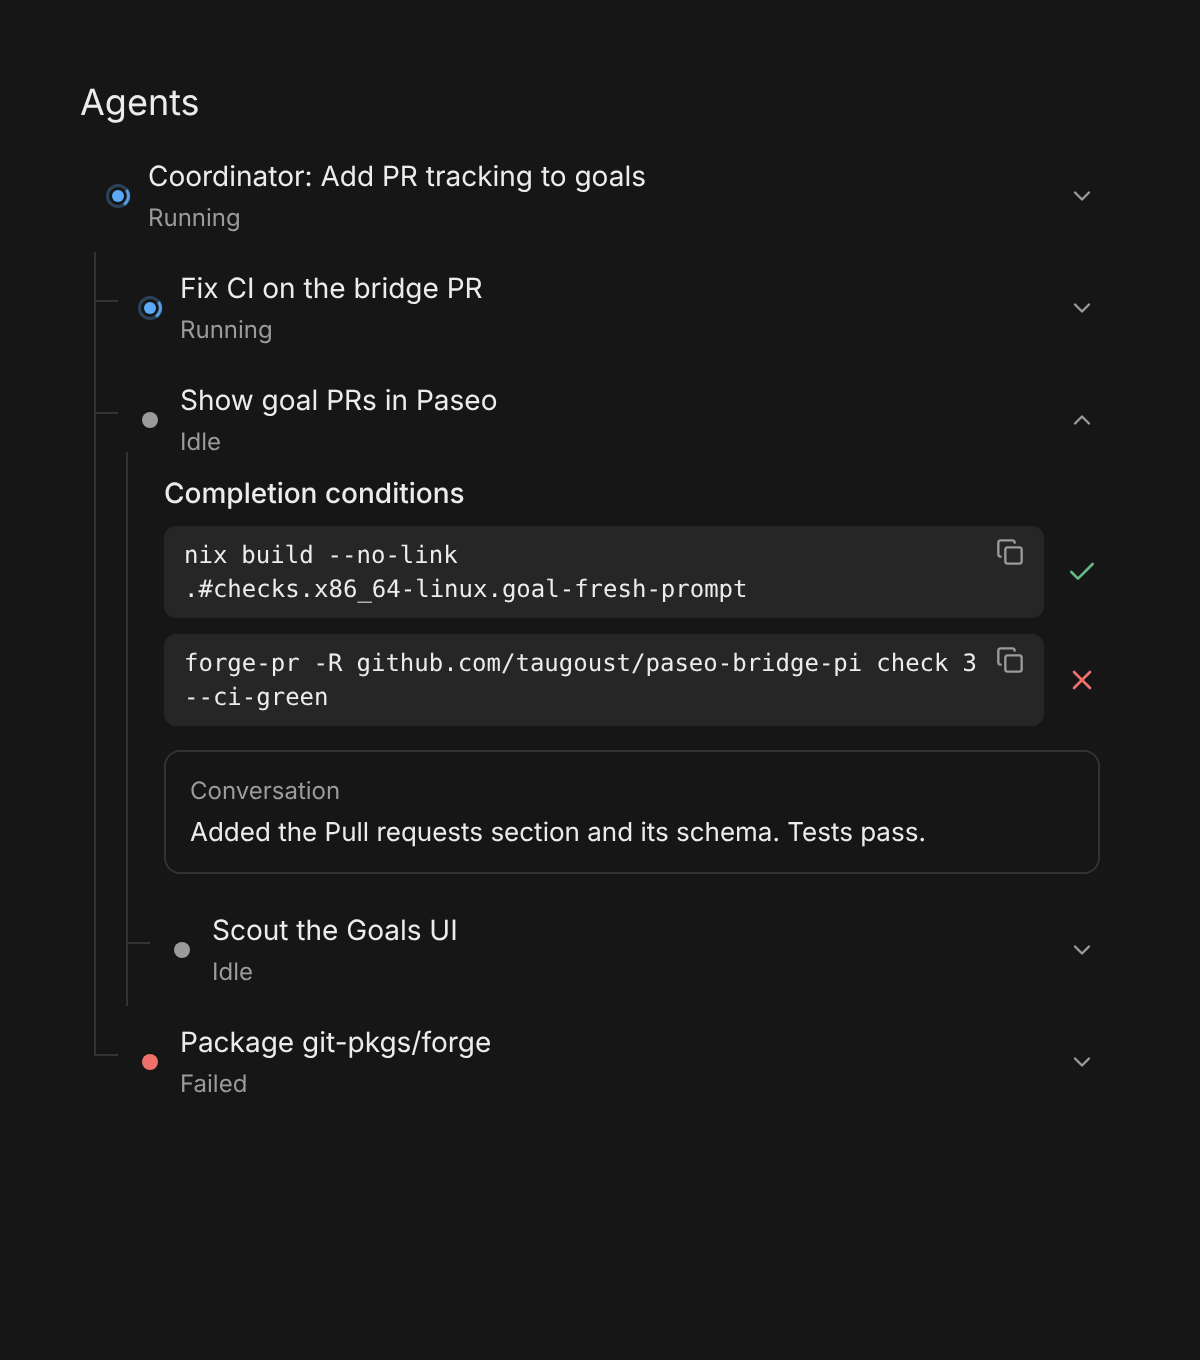
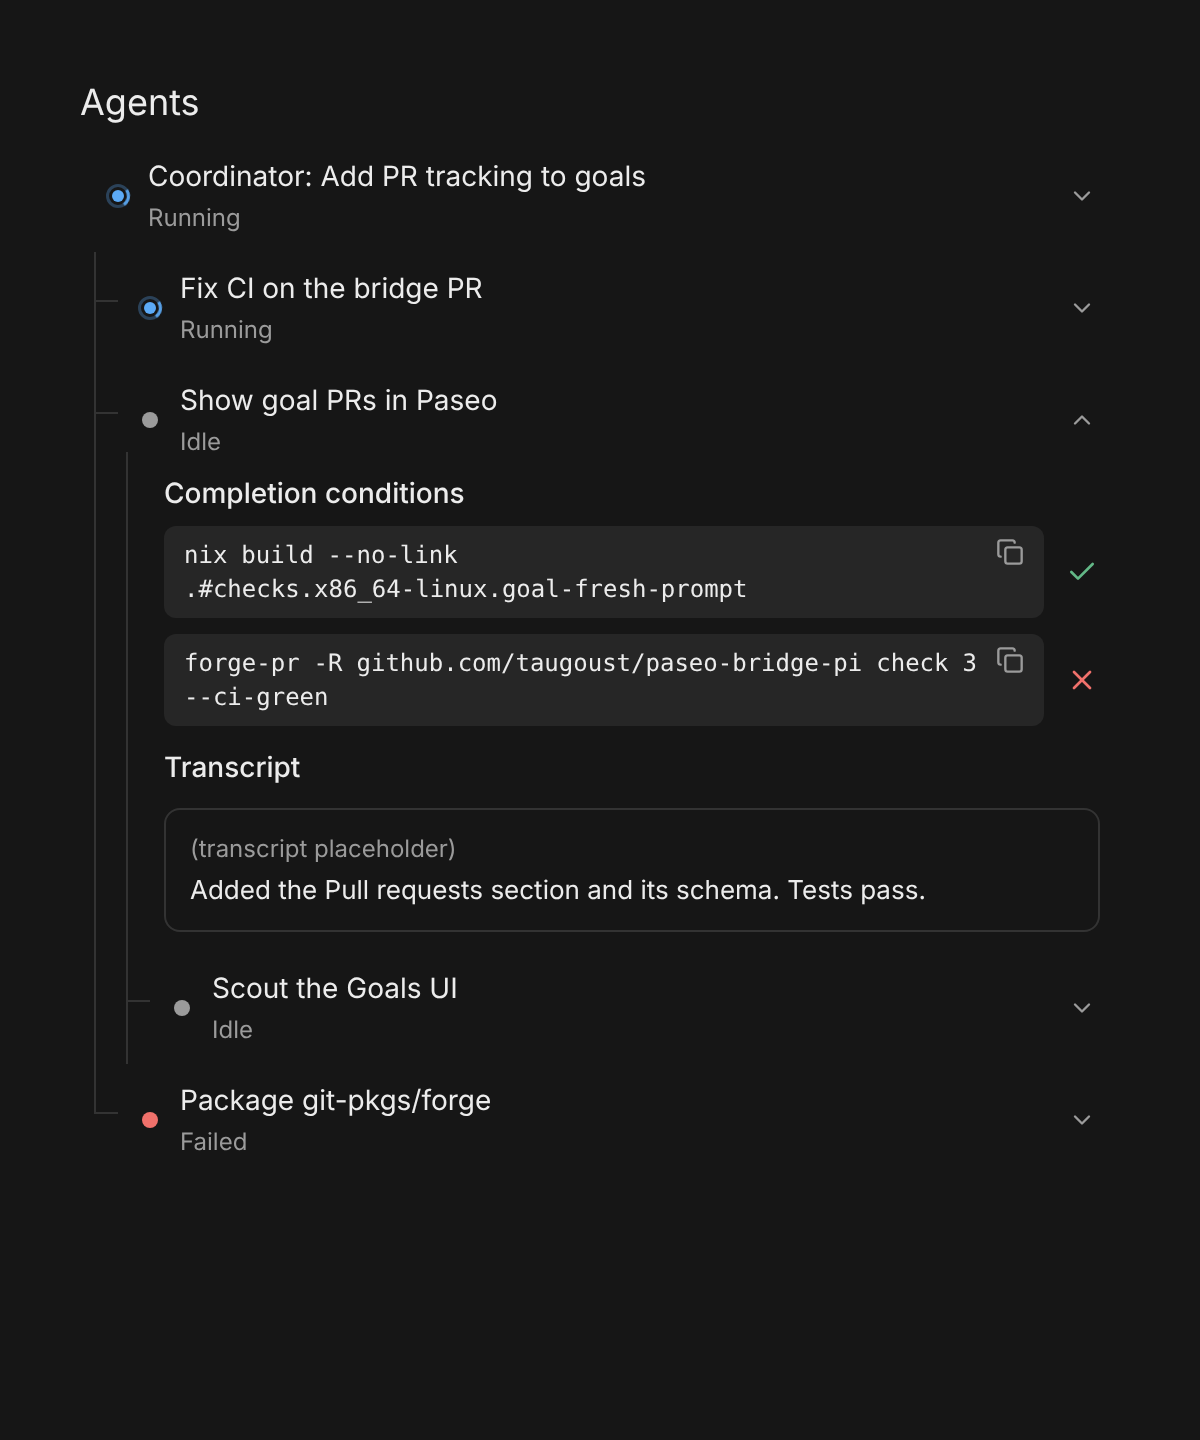
Agents: label the transcript under completion conditions

diff --git a/plugin/client/harness.tsx b/plugin/client/harness.tsx
@@ -913,7 +913,10 @@ function HarnessPanel({
 			<View style={{ gap: 8, padding: 10, paddingTop: 0, ...(kind === "subagents" && viewMode !== "completed" && selectedAttempt && rows.some(row => "childId" in row && row.parentKey === treeAttemptKey(selectedAttempt)) ? { paddingLeft: 30 } : {}) }}>
 				{selectedWorker ? <>
 					{selectedWorker.title !== workerTitle(selectedWorker) ? <Metadata colors={theme.colors}>Task: {selectedWorker.title}</Metadata> : null}
-					{selectedWorker.checks?.length ? <HarnessChecks open title="Completion conditions" colors={theme.colors} checks={subagentChecks(selectedWorker.checks)} /> : null}
+					{selectedWorker.checks?.length ? <>
+						<HarnessChecks open title="Completion conditions" colors={theme.colors} checks={subagentChecks(selectedWorker.checks)} />
+						<Text style={{ color: fg, fontWeight: "500", fontSize: 14 }}>Transcript</Text>
+					</> : null}
 					<WorkerConversation key={JSON.stringify([session, epoch, selectedWorker.childId, selectedWorker.attempt, selectedWorker.runtimeId])}
 						target={conversationTarget(selectedWorker)} epoch={conversationTarget(selectedWorker).runtimeEpoch} colors={theme.colors} platform={layout.platform} />
 				</> : <>
